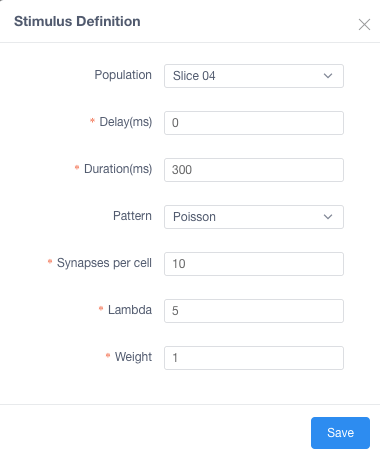
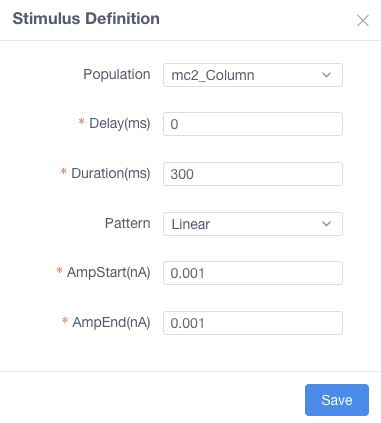
Update linear stimulus SimUI

diff --git a/source/online_usecases/brain_area_circuit_in_silico_experiments/hippocampus/configure_run_brainregion_preconf_model_data/configure_run_brainregion_preconf_model_data.rst b/source/online_usecases/brain_area_circuit_in_silico_experiments/hippocampus/configure_run_brainregion_preconf_model_data/configure_run_brainregion_preconf_model_data.rst
@@ -1,6 +1,6 @@
 .. _conf_run_hippo_pre:
 
-Rat hippocampus CA1
+Configure and run a rat hippocampus CA1 region using preconfigured HBP model and data
 ~~~~~~~~~~~~~~~~~~~~~~~~~~~~~~~~~~~~~~~~~~~~~~~~~~~~~~~~~~~~~~~~~~~~~~~~~~~~~~~~~~~~~
 
 
@@ -33,24 +33,23 @@ In the **Section 2)** you can configure:
 
   -  *Population*: Name of a population to receive the stimulation
   -  *Delay*: Time when the stimulus commences, given in
-     milliseconds(ms)
+     milliseconds (ms)
   -  *Duration*: Time length of stimulus duration, given in
-     milliseconds(ms)
+     milliseconds (ms)
   -  *Pattern*: Type of stimulus to inject
-  -  *Synapses per cell*: The number of synapses to create
-  -  *Lambda*: Configure the random distribution
-  -  *Weight*: The strength of the created synapses
+  -  *AmpStart*: The amount of current initially injected when the stimulus activates (nA)
+  -  *AmpEnd*: The final current when a stimulus concludes. Used by Linear (nA)
 
     |edit_stimulus|
 
 -  ``Reports``
 
   -  *Population*: Defines the population from where the data will be reported.
-  -  *StartTime*: Time to start reporting(ms)
-  -  *EndTime*: Time to stop reporting(ms)
+  -  *StartTime*: Time to start reporting (ms)
+  -  *EndTime*: Time to stop reporting (ms)
   -  *Compartments*: Which compartment(s) to report [Soma = compartment, Soma + Dendrites = AllCompartments]
   -  *ReportOn*: What to report [Voltage, Calcium Concentration, Current Summation (for LFP)]
-  -  *dt*: The frequency of reporting in milliseconds(ms)
+  -  *dt*: The frequency of reporting in milliseconds (ms)
   -  *Format*: Defines the report output format [Binary (.bbp), ASCII, HDF5]
 
     |edit_report|
